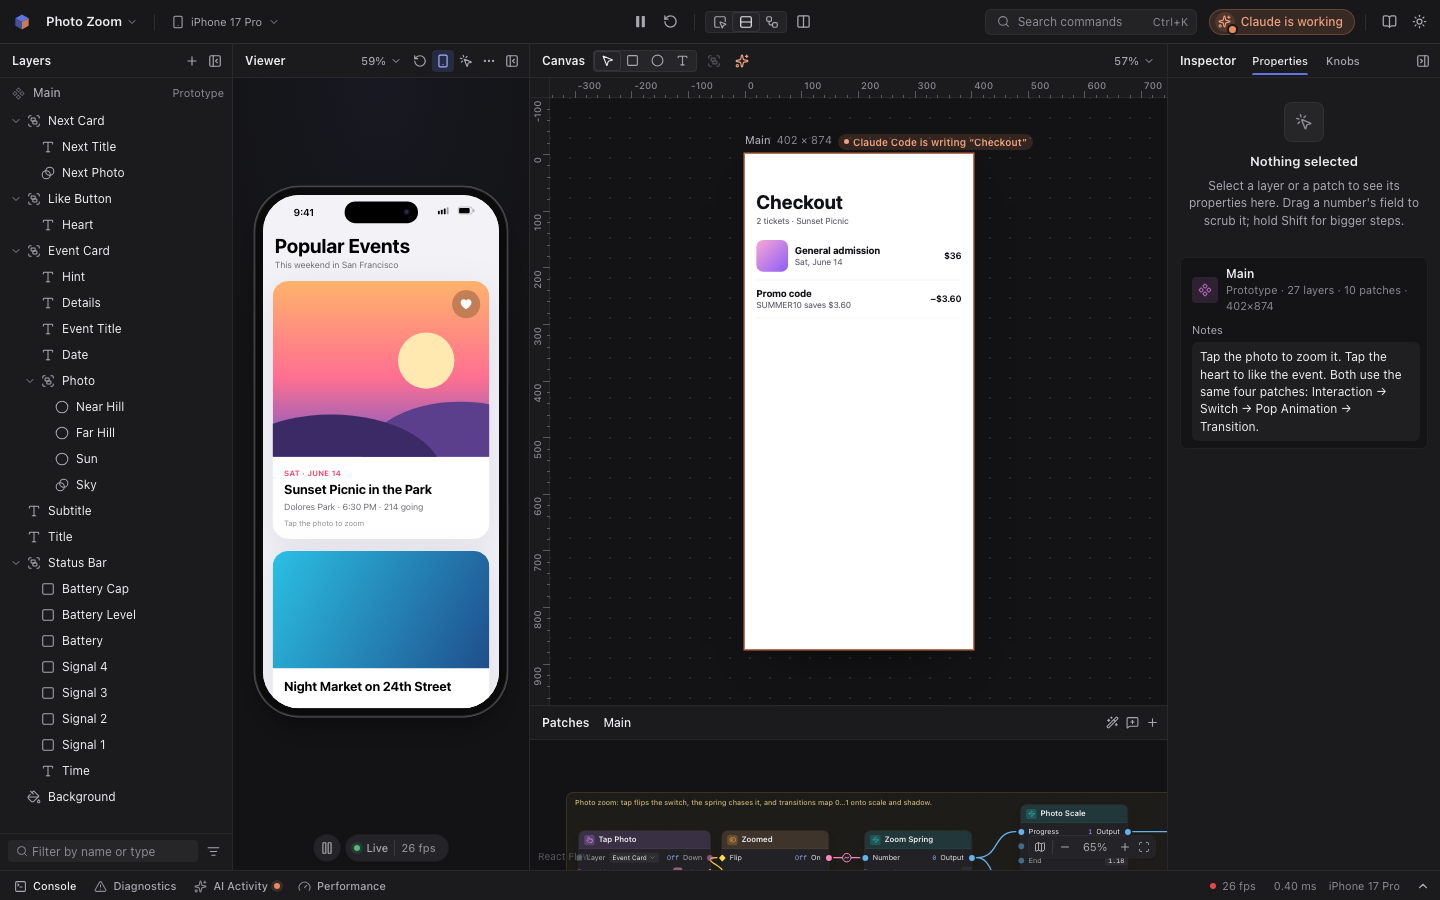
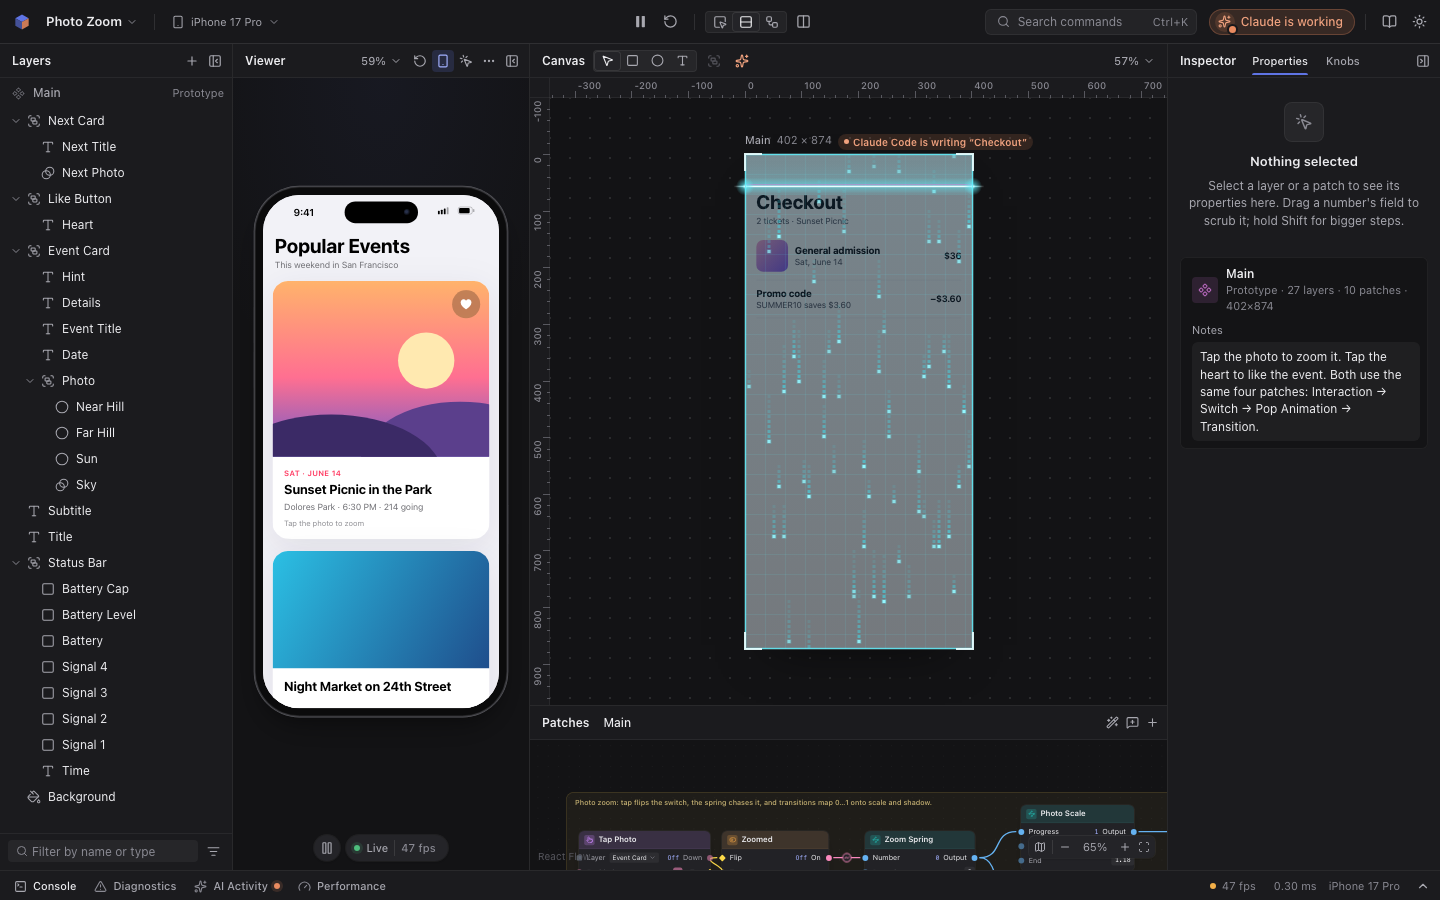
Design with Claude: the hologram scanner sweeps over the page while Claude writes it
The live preview had no loading state once the import hologram stopped replaying the build
(196dbcb): the part of the page not written yet was just blank. Now the Import dialog's scanner
(veil, pixel rain, grid and a sweeping laser) lies over the preview while Claude writes, its veil
at 55% so the page shows through (85% before any html arrives), and fades off once the page is
complete, before the preview settles onto the layers. Still one reveal. HologramScanner takes a
veil opacity and a class, and keeps its sweep's place when the frame resizes on zoom. Reduced
motion shows the still frame.

Claude-Session: https://claude.ai/code/session_01UrJGAZbPkwwHHAsn8dUXiN

Changed region(s): [[0.5, 0.1556, 0.6875, 0.7467], [0.7812, 0.9022, 0.8125, 0.9333], [0.6562, 0.9333, 0.6875, 0.9644]]

diff --git a/apps/editor/src/panels/design/DesignPreview.tsx b/apps/editor/src/panels/design/DesignPreview.tsx
@@ -2,9 +2,11 @@
  * The live preview over the artboard: the page Claude is writing, drawn in a sandboxed iframe where
  * the screen will land, with a pill saying who is doing what. The pill stays in view: in the
  * artboard's label row over a frame at its top, else above the frame, else just inside its top edge.
- * The page comes from the in-app Assistant or from an MCP client such as Claude Code. Once it's added,
- * it fades out onto the real layers: it is that import's reveal, so the import hologram doesn't build
- * the screen again (designStore's previewedImport).
+ * The page comes from the in-app Assistant or from an MCP client such as Claude Code. While Claude
+ * writes, the hologram's scanner sweeps over it, its veil thin enough for the page to show through,
+ * so the part not written yet reads as on its way; it fades off once the page is complete. Once it's
+ * added, the preview fades out onto the real layers: it is that import's reveal, so the import
+ * hologram doesn't build the screen again (designStore's previewedImport).
  */
 
 import type { Author } from "@sonobe/core";
@@ -13,6 +15,7 @@ import { createPortal } from "react-dom";
 import { useLatest } from "../../ui/lib/hooks.ts";
 import type { Rect } from "../canvas/geometry.ts";
 import { rectToScreen, type Viewport } from "../canvas/viewport.ts";
+import { HologramScanner } from "../import/HologramScanner.tsx";
 import type { DesignTarget } from "./context.ts";
 import { activeDraft, assistantDraft, designStore, draftComponent, draftRequest, mcpDraftIdleAt, useDesign, type DesignData, type DesignDraft, type DesignRequest } from "./designStore.ts";
 import { PREVIEW_MESSAGE_TYPE, previewShellHtml, renderablePrefix } from "./previewShell.ts";
@@ -28,6 +31,9 @@ const LABEL_CLEARANCE = 22;
 /** The pill's height, and its gap from the frame's edge (design.css). */
 const PILL_HEIGHT = 24;
 const PILL_GAP = 8;
+/** How opaque the scanner's veil is over the page Claude is writing, and over the artboard before the page starts. */
+export const SCAN_VEIL = 0.55;
+export const SCAN_VEIL_EMPTY = 0.85;
 
 const isLive = (draft: DesignDraft) => draft.status === "writing" || draft.status === "adding";
 
@@ -125,10 +131,16 @@ export function DesignPreview({ viewport, bounds, componentId, rootId, artboard,
   const place = atTop && labelSlot && labelInView ? "label" : roomAbove ? "above" : "inside";
   // Inside, it keeps below the ruler while the frame's top is scrolled under it.
   const insideTop = Math.min(Math.max(0, insetTop - y), Math.max(0, screen.height - PILL_HEIGHT - PILL_GAP * 2)) + PILL_GAP;
+  const scanning = draft.status === "writing";
 
   return (
-    <div className="sb-design-preview" data-state={leaving ? "leaving" : "live"} style={{ transform: `translate(${x}px, ${y}px)`, width: screen.width, height: screen.height }}>
+    <div className="sb-design-preview" data-state={leaving ? "leaving" : "live"} data-scanning={scanning || undefined} style={{ transform: `translate(${x}px, ${y}px)`, width: screen.width, height: screen.height }}>
       <PreviewFrame key={draft.key} html={draft.html} complete={draft.status !== "writing"} hold={draft.resync && draft.status === "writing"} width={frame.width} height={frame.height} zoom={viewport.zoom} />
+      {!leaving && (
+        <div className="sb-design-preview__scan" data-state={scanning ? "on" : "off"} aria-hidden>
+          <HologramScanner key={draft.key} width={screen.width} height={screen.height} veil={draft.html ? SCAN_VEIL : SCAN_VEIL_EMPTY} className="sb-design-preview__scan-canvas" />
+        </div>
+      )}
       {place !== "label" ? (
         <div className="sb-design-preview__pill" data-design-pill="" data-status={draft.status} data-place={place} data-lift={(place === "above" && atTop) || undefined} style={place === "inside" ? { top: insideTop } : undefined}>
           <span className="sb-design-preview__dot" aria-hidden />

diff --git a/apps/editor/src/panels/import/HologramScanner.tsx b/apps/editor/src/panels/import/HologramScanner.tsx
@@ -1,7 +1,9 @@
 /**
- * The Import Design dialog's scanner while a page is captured: a frame with the import's proportions,
- * pixel rain over a faint grid, and a laser sweeping slowly down and back up. Drawn with the canvas
- * build's code on one 2D canvas; reduced motion shows the still frame.
+ * The scanner while a design is on its way: a frame with the import's proportions, pixel rain over a
+ * faint grid, and a laser sweeping slowly down and back up. The Import Design dialog shows it while a
+ * page is captured, and the live design preview lays it over the page Claude is writing, its veil thin
+ * enough for the page to show through. Drawn with the canvas build's code on one 2D canvas; reduced
+ * motion shows the still frame.
  */
 
 import { useLayoutEffect, useRef } from "react";
@@ -20,6 +22,10 @@ export interface HologramScannerProps {
   /** The frame's size in CSS pixels. */
   width: number;
   height: number;
+  /** How opaque the veil is (0–1). Default 1: the page behind it is hidden. */
+  veil?: number;
+  /** Default `sb-holo-scan`, the dialog's. */
+  className?: string;
 }
 
 /** Where the laser is `t` ms into the scan (0 top → 1 bottom), and which way it's going. */
@@ -28,8 +34,10 @@ export function scanLaserAt(t: number): { y: number; direction: 1 | -1 } {
   return u < 1 ? { y: sweepCurve(u), direction: 1 } : { y: 1 - sweepCurve(u - 1), direction: -1 };
 }
 
-export function HologramScanner({ width, height }: HologramScannerProps) {
+export function HologramScanner({ width, height, veil = 1, className = "sb-holo-scan" }: HologramScannerProps) {
   const canvasRef = useRef<HTMLCanvasElement>(null);
+  // The sweep keeps its place when the frame resizes (a zoom over the live preview).
+  const startRef = useRef<number | null>(null);
   const w = Math.max(1, Math.round(width));
   const h = Math.max(1, Math.round(height));
 
@@ -40,7 +48,7 @@ export function HologramScanner({ width, height }: HologramScannerProps) {
     const colors = readHoloColors(canvas);
     const frame: Rect = { x: PAD_X, y: PAD_Y, width: w, height: h };
     const reduced = prefersReducedMotion();
-    const start = performance.now();
+    const start = (startRef.current ??= performance.now());
     let raf = 0;
     const draw = (now: number) => {
       const dpr = fitCanvas(canvas, w + PAD_X * 2, h + PAD_Y * 2);
@@ -50,7 +58,9 @@ export function HologramScanner({ width, height }: HologramScannerProps) {
       ctx.beginPath();
       ctx.rect(frame.x, frame.y, frame.width, frame.height);
       ctx.clip();
+      ctx.globalAlpha = Math.max(0, Math.min(1, veil));
       drawVeil(ctx, frame, colors);
+      ctx.globalAlpha = 1;
       drawGrid(ctx, frame, colors);
       const t = now - start;
       const laser = scanLaserAt(t);
@@ -61,7 +71,7 @@ export function HologramScanner({ width, height }: HologramScannerProps) {
       if (!reduced) drawLaser(ctx, frame, Math.min(frame.y + frame.height - 0.75, Math.max(frame.y + 0.75, y)), laser.direction, colors);
       drawFrame(ctx, frame, colors);
     };
-    draw(start);
+    draw(performance.now());
     if (reduced) return;
     const loop = (now: number) => {
       draw(now);
@@ -69,9 +79,9 @@ export function HologramScanner({ width, height }: HologramScannerProps) {
     };
     raf = requestAnimationFrame(loop);
     return () => cancelAnimationFrame(raf);
-  }, [w, h]);
+  }, [w, h, veil]);
 
-  return <canvas ref={canvasRef} className="sb-holo-scan" aria-hidden style={{ width: w + PAD_X * 2, height: h + PAD_Y * 2, margin: `${-PAD_Y}px ${-PAD_X}px` }} />;
+  return <canvas ref={canvasRef} className={className} aria-hidden style={{ width: w + PAD_X * 2, height: h + PAD_Y * 2, margin: `${-PAD_Y}px ${-PAD_X}px` }} />;
 }
 
 /** The biggest frame with the import's proportions that fits `box` (CSS px), no taller than `max`. */

diff --git a/apps/editor/src/panels/design/design.css b/apps/editor/src/panels/design/design.css
@@ -312,6 +312,37 @@
   opacity: 0;
 }
 
+/* The scanner draws its own frame while Claude writes. */
+.sb-design-preview[data-scanning]::after {
+  opacity: 0;
+}
+
+/* The hologram's scanner over the page Claude is writing; it fades off once the page is complete. */
+.sb-design-preview__scan {
+  position: absolute;
+  inset: 0;
+  pointer-events: none;
+  animation: sb-design-scan-in 320ms var(--ease-out);
+  transition: opacity 360ms var(--ease-out);
+}
+
+.sb-design-preview__scan[data-state="off"] {
+  opacity: 0;
+}
+
+.sb-design-preview__scan-canvas {
+  position: absolute;
+  top: 0;
+  left: 0;
+  display: block;
+}
+
+@keyframes sb-design-scan-in {
+  from {
+    opacity: 0;
+  }
+}
+
 /*
  * While the person decides whether Claude may replace a screen, the screen shows through the new
  * version, and the pill (which would say the layers are being added) steps aside.
@@ -391,8 +422,10 @@
   animation: none;
 }
 
-:root[data-motion="reduce"] .sb-design-preview {
+:root[data-motion="reduce"] .sb-design-preview,
+:root[data-motion="reduce"] .sb-design-preview__scan {
   transition: none;
+  animation: none;
 }
 
 :root[data-motion="reduce"] .sb-design-preview__dot::after {
@@ -405,8 +438,10 @@
     animation: none;
   }
 
-  :root:not([data-motion="full"]) .sb-design-preview {
+  :root:not([data-motion="full"]) .sb-design-preview,
+  :root:not([data-motion="full"]) .sb-design-preview__scan {
     transition: none;
+    animation: none;
   }
 
   :root:not([data-motion="full"]) .sb-design-preview__dot::after {

diff --git a/apps/editor/src/panels/design/DesignPreview.test.tsx b/apps/editor/src/panels/design/DesignPreview.test.tsx
@@ -254,6 +254,22 @@ describe("DesignPreview", () => {
     act(() => vi.advanceTimersByTime(401));
     expect(wrapper()).toBeNull();
   });
+
+  it("sweeps the hologram's scanner over the page while Claude writes it, then fades it off", () => {
+    const scan = () => container.querySelector<HTMLElement>(".sb-design-preview__scan");
+    show([draft()]);
+    render();
+    expect(scan()!.dataset.state).toBe("on");
+    expect(wrapper()!.dataset.scanning).toBe("true");
+    const canvas = scan()!.querySelector<HTMLCanvasElement>("canvas")!;
+    const screen = rectToScreen(VIEWPORT, { x: 0, y: 0, width: 402, height: 874 });
+    expect(parseFloat(canvas.style.width)).toBe(Math.round(screen.width) + 28);
+    show([draft({ html: "<p>Hi</p>", status: "adding" })]);
+    expect(scan()!.dataset.state).toBe("off");
+    expect(wrapper()!.dataset.scanning).toBeUndefined();
+    show([draft({ html: "<p>Hi</p>", status: "added", since: Date.now() })]);
+    expect(scan()).toBeNull();
+  });
 });
 
 describe("an MCP client's draft", () => {

diff --git a/ARCHITECTURE.md b/ARCHITECTURE.md
@@ -533,7 +533,7 @@ Layer types are declared in `@sonobe/core` (`layerTypes.ts`) with typed props (k
   - Commands: **Show Knobs** (⌘5, also View > Knobs in the desktop menu), **Flip Presets** (⌘', to the partner; everywhere but text fields), New Knob…, New Preset, Copy Knob Differences, Convert Variables to Knobs…. Knob diagnostics in the HUD open the tab on their knob.
   - Copying items carries a snapshot of the knobs their links read: pasting keeps a link where the same knob exists with the same type, and pastes the value elsewhere.
 - **Layers panel:** a ×N badge on layers that make copies (with a repeat icon when Repeat decides) and a z badge on layers with a Z Position. Bring to Front and Send to Back say when a sibling's Z Position still wins.
-- **Canvas:** artboard with direct manipulation (select, move, resize, rotate), rulers and snapping, insert shapes and text. **Design with Claude** (the header's sparkle, ⌘K, or a layer's Redesign with Claude…): a box at the bottom of the canvas sends the request to the in-app Assistant with the canvas's context (the component, its screens, the picked layer and `styleDigest`), and draws the HTML Claude is writing over the artboard in a sandboxed preview (`panels/design`): on the API key from `import_design`'s streamed html, on the subscription from the Assistant's `preview_design` calls (§10). The preview never writes the document; the finished page imports once through `import_design`, as one undo step, and the new screen is selected. The preview then fades onto the real layers: it is that import's reveal, so the import hologram (§13) doesn't build the screen again. While the box is open, or an MCP client's draft is being written, the canvas shows, with 80% of a split over the patch editor (`panels/design/layout.ts`; never saved, and put back afterwards unless a draft drawn with the box closed was imported), and a draft's first page is fitted at a size you can read (for a new screen, its part on the artboard, which is all the canvas and the viewer show; for a redesign, the layer it replaces, wherever that is) until the next resize after it lands. Without the Assistant (no key, or the browser), the box copies a prompt for Claude Code or Claude; with the subscription picked but not ready, it says what to do, with Sign in… or Set up…. On macOS, **Open in Claude Code** (there, or in the box's footer) starts the person's own `claude` in Terminal with that prompt, in the linked code folder (§10).
+- **Canvas:** artboard with direct manipulation (select, move, resize, rotate), rulers and snapping, insert shapes and text. **Design with Claude** (the header's sparkle, ⌘K, or a layer's Redesign with Claude…): a box at the bottom of the canvas sends the request to the in-app Assistant with the canvas's context (the component, its screens, the picked layer and `styleDigest`), and draws the HTML Claude is writing over the artboard in a sandboxed preview (`panels/design`): on the API key from `import_design`'s streamed html, on the subscription from the Assistant's `preview_design` calls (§10). While the page is written, the hologram scanner (`HologramScanner.tsx`, §13) sweeps over it with its veil at 55% (85% before any html arrives), so the part not written yet reads as on its way, and it fades off once the page is complete. The preview never writes the document; the finished page imports once through `import_design`, as one undo step, and the new screen is selected. The preview then fades onto the real layers: it is that import's reveal, so the import hologram (§13) doesn't build the screen again. While the box is open, or an MCP client's draft is being written, the canvas shows, with 80% of a split over the patch editor (`panels/design/layout.ts`; never saved, and put back afterwards unless a draft drawn with the box closed was imported), and a draft's first page is fitted at a size you can read (for a new screen, its part on the artboard, which is all the canvas and the viewer show; for a redesign, the layer it replaces, wherever that is) until the next resize after it lands. Without the Assistant (no key, or the browser), the box copies a prompt for Claude Code or Claude; with the subscription picked but not ready, it says what to do, with Sign in… or Set up…. On macOS, **Open in Claude Code** (there, or in the box's footer) starts the person's own `claude` in Terminal with that prompt, in the linked code folder (§10).
 - **Viewer:** live prototype, device picker, restart ⌘R, frame toggle, 1:1, "show hit targets", and pop-out window. Also serves a LAN web player (QR code), which the Sonobe Viewer iPhone app opens with native haptics (§9.2). Restarting restarts the phones and the pop-out viewer too. While the prototype has an `empty_loop` warning, a notice above it names what has no copies, and Why? opens the warning in Diagnostics. When the running knob preset changes, from any source, a caption names it over the stage for 1.5 s.
   - **The restart offer** (`runtime/staleState.ts`). Edits hot-swap and keep state. When an edit arrives while an `empty_loop` warning is up, the runtime host waits until the new document has run three frames and 300 ms have passed, then steps a fresh headless copy (no platform services) for two frames. If the copy draws a layer the live prototype still draws no copies of, the notice says "The prototype kept state from before your edit" with a Restart button, and the `viewer.diagnostics` RPC adds a `stale_state` info diagnostic for `get_diagnostics`. A restart, or the copies coming back, clears it. If the copy draws nothing either, the wiring empties the loop, and the notice keeps Why?.
 - **Command palette** (⌘K) lists every command with its shortcut, so the app is discoverable.

diff --git a/ROADMAP.md b/ROADMAP.md
@@ -71,7 +71,7 @@ The first two finish Stage 4. The rest are Stage 5.
 ## Stage 5: Bring work in, build together
 - [x] Import designs from code: `@sonobe/import` reads a rendered page (computed layout and styles, so any framework and any CSS) into a neutral design capture and converts it into layers, image assets, text fields and Scroll patches. The desktop app renders URLs and HTML in a hidden sandboxed window (File → Import Design…), the browser editor renders HTML in a sandboxed iframe, headless servers use Playwright, and pasting a capture imports it. Claude imports with `import_design` from a dev server, from HTML it writes from any codebase, or from a capture
 - [x] Import fidelity: web fonts come along as font assets that every renderer registers
-- [x] Import hologram: the Import Design dialog shows a hologram scanner while it captures, and every import (the dialog, a pasted capture, Claude's `import_design`, which marks its apply as an import) lands on the canvas as a hologram, except one Design with Claude's live preview drew, which fades from the preview onto its layers. The hologram's laser traces the wireframe div by div, then materializes the design and closes with a soft bloom, with the screen's selection held back until it lands and a crossfade under reduced motion. Rounded screens keep their corners. The Viewer's device screen traces the same wireframe on the same timeline, or plans it from the running prototype and plays it alone when no canvas shows the screen
+- [x] Import hologram: the Import Design dialog shows a hologram scanner while it captures, and every import (the dialog, a pasted capture, Claude's `import_design`, which marks its apply as an import) lands on the canvas as a hologram, except one Design with Claude's live preview drew, which the scanner sweeps over while Claude writes it and which fades from the preview onto its layers. The hologram's laser traces the wireframe div by div, then materializes the design and closes with a soft bloom, with the screen's selection held back until it lands and a crossfade under reduced motion. Rounded screens keep their corners. The Viewer's device screen traces the same wireframe on the same timeline, or plans it from the running prototype and plays it alone when no canvas shows the screen
 - [x] SF Symbols in imports: `<svg data-sf-symbol="heart.fill">` in imported HTML becomes the real symbol as an SVG image, drawn on the person's Mac by a small SwiftUI helper the app ships (macOS 13 or later; headless servers use it through `SONOBE_SFSYMBOL`). Elsewhere it stays a gray placeholder with a note
 - [ ] Insert → SF Symbol picker: search the symbols in the editor and insert one as a layer, drawn by the same helper (partial: symbols arrive only through imported HTML today)
 - [ ] Rich text layers (partial: an imported paragraph that mixes styles becomes a group of single-style runs per line, which looks right but edits in pieces; paragraphs over 16 lines flatten to their main style)

diff --git a/docs/guides/12-importing-designs.md b/docs/guides/12-importing-designs.md
@@ -95,7 +95,7 @@ In the desktop app, the Assistant can design a screen right where you noticed it
 
 1. Click the sparkle in the canvas header (**Design with Claude**), or choose **Redesign with Claude…** on a layer in the Layers panel.
 2. Describe the screen, like "a checkout with Apple Pay and a promo code", and press Return. With a layer selected, describe what should change instead.
-3. Watch Claude write it: the canvas makes room, with the patch editor kept as a strip below, and the page draws over the artboard as the HTML arrives, large enough to read. When it's done, the preview fades into real layers, named from the page, in one undo step, and the new screen is selected. You've already watched it take shape, so it doesn't build in as a hologram.
+3. Watch Claude write it: the canvas makes room, with the patch editor kept as a strip below, and the page draws over the artboard as the HTML arrives, large enough to read, under the hologram's scanner: a thin veil, pixel rain and a laser sweeping down and back up until the page is complete. When it's done, the preview fades into real layers, named from the page, in one undo step, and the new screen is selected. You've already watched it take shape, so it doesn't build in as a hologram.
 4. Keep going in the same box: "make the header bigger", "try a darker version", or "make the Pay button bounce". **Make it interactive** and **Add knobs** under the result ask Claude to wire its buttons, or to turn its colors, corner radius and spacing into knobs you can tune ([guide 13](13-knobs-and-presets.md)).
 
 - **It matches what's there.** Claude gets the colors, fonts, sizes and corner radii your screens already use. Choose **Match my code…** and pick your app's folder, and it can read your theme and token files too. It reads only text files there, skips hidden files, `.env` files and keys, and can't change anything. What it reads goes to Anthropic, like the rest of the chat.
